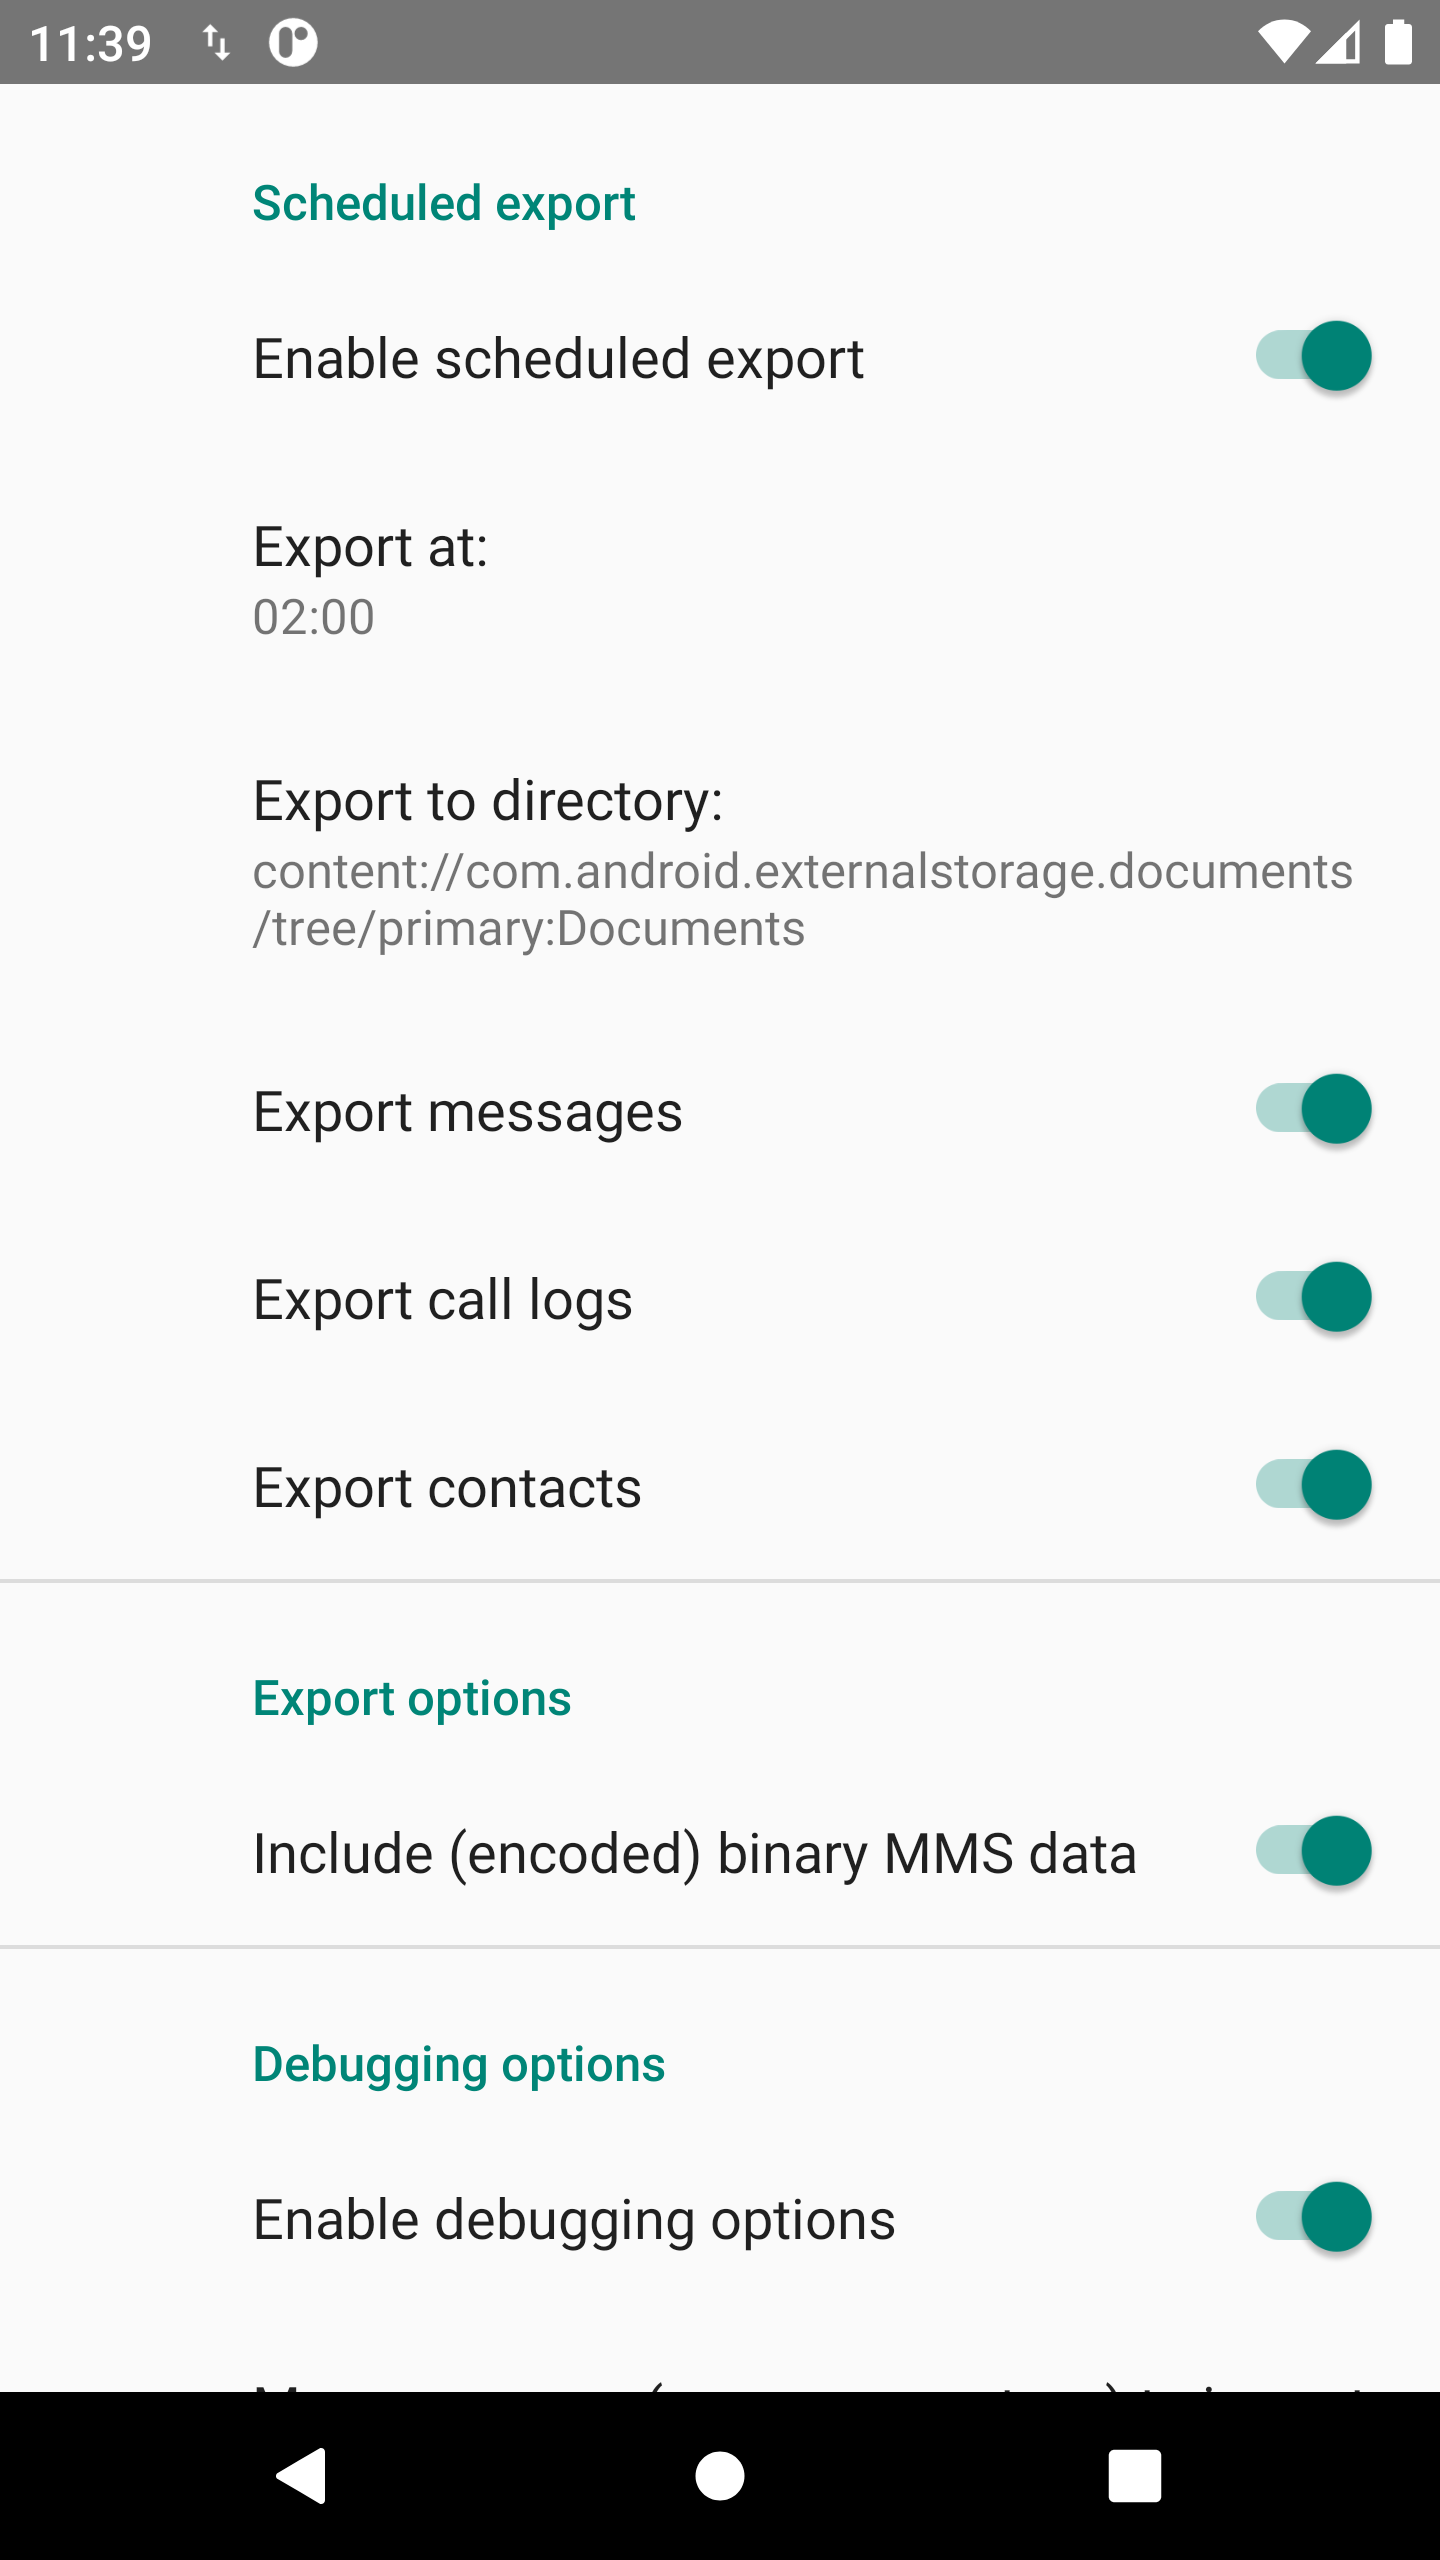
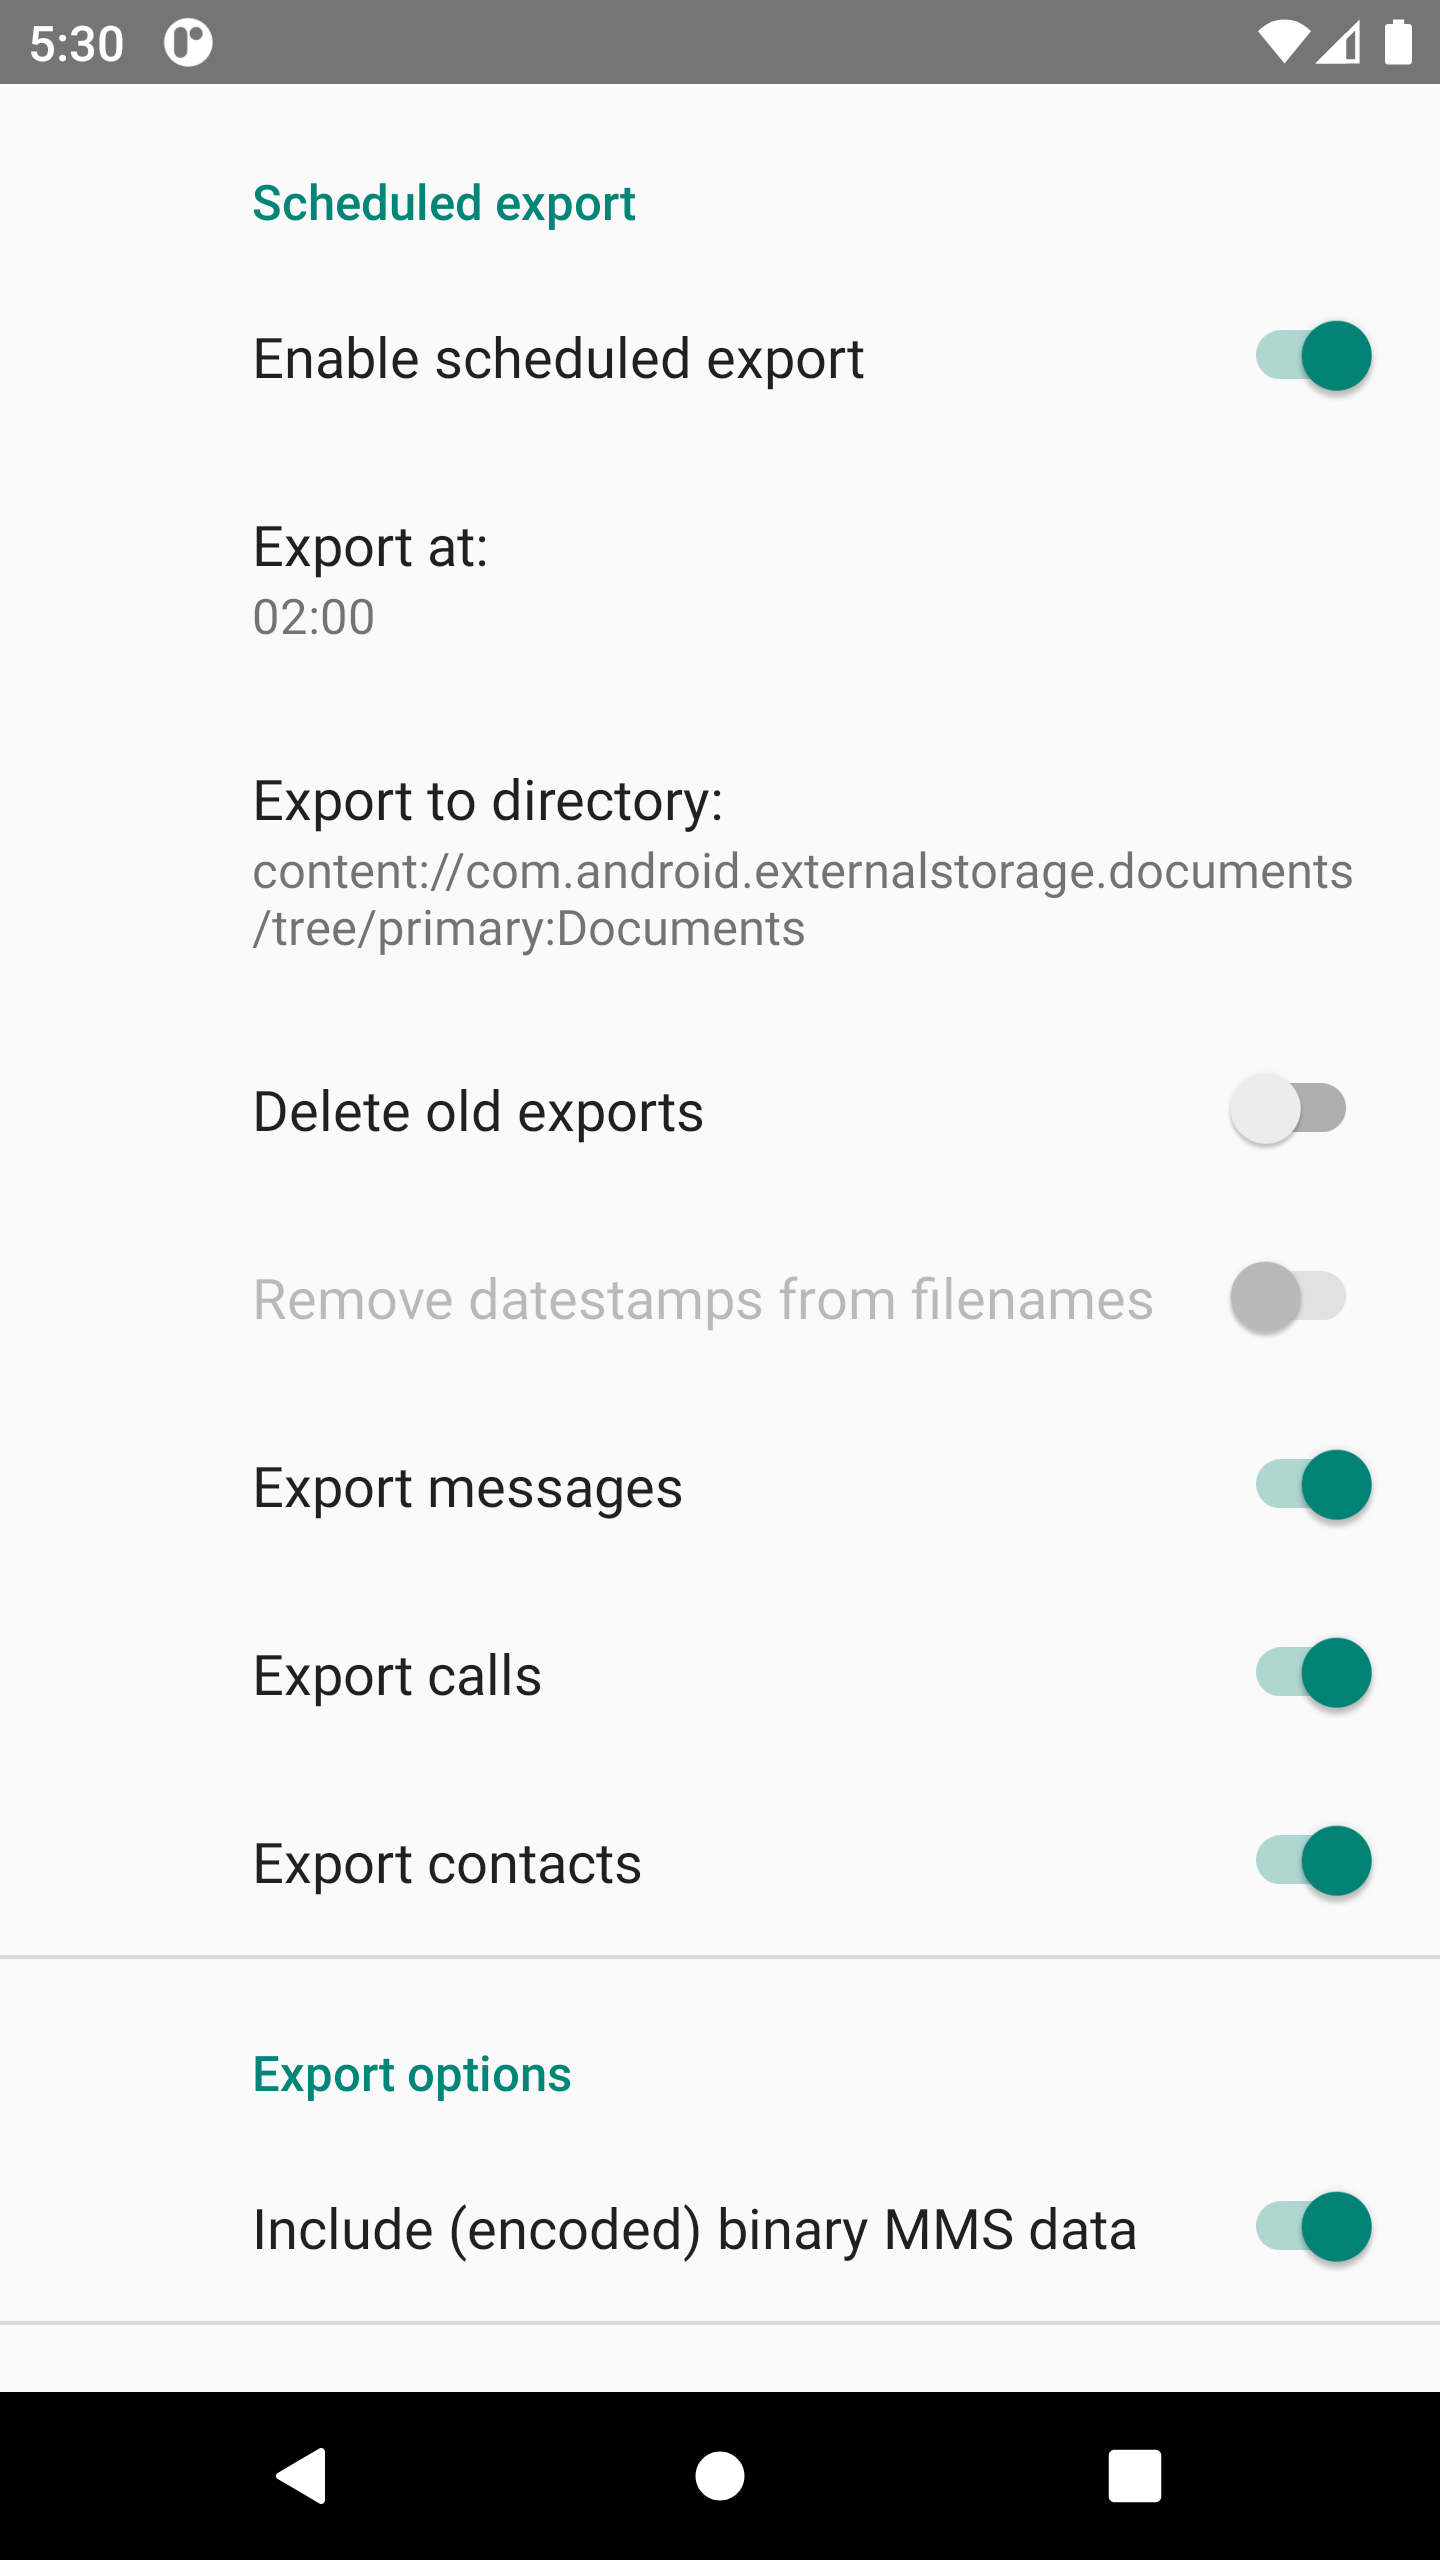
Version 1.5.1
* Update fastlane metadata

 * Update Gradle configuration

diff --git a/README.md b/README.md
@@ -25,7 +25,7 @@ To enable the scheduled export of messages, call logs and / or contacts, enable 
 
 #### Retention
 
-When scheduled exports are enabled, the following option can be used to control retention:
+When scheduled exports are enabled, the following options can be used to control retention:
 
  - `Delete old exports` - If this option is not enabled (the default), then any old exports will be left untouched (i.e., all exports are retained indefinitely). If it is enabled, then for each data type (contacts, call log, and messages), upon successful export, the app will try to delete any old exports (i.e., all files with names of the form `<data-type>-<yyyy-MM-dd>.json`, where `<data-type>` is the data type successfully exported, and `<yyyy-MM-dd>` is a datestamp). Selective retention of a subset of old exports can be accomplished by enabling this option in conjunction with the use of external software with snapshotting and selective retention functionality, such as [rsnapshot](https://rsnapshot.org/) or [borg](https://borgbackup.readthedocs.io/en/stable/usage/prune.html), running either on the local device, or on a system to which the exports are synced via software such as [Syncthing](https://syncthing.net/). This software should be scheduled to run between exports, and configured to preserve copies of the previous exports before the app deletes them following its next scheduled exports.
  - `Remove datestamps from filenames` - Scheduled exports are always initially created with filenames of the form `<data-type>-<yyyy-MM-dd>.json`. If this option is enabled (in addition to the previous one), then after attempting to delete all old exports (of the relevant data type), the app will then attempt to remove the datestamp from the current export's filename by renaming it to `<data-type>.json`. This is intended to make successive exports appear to be different versions of the same file, which may be useful in conjunction with external software that implements some form of file versioning, such as [Syncthing](https://docs.syncthing.net/users/versioning.html) or [Nextcloud](https://docs.nextcloud.com/server/latest/user_manual/en/files/version_control.html).
